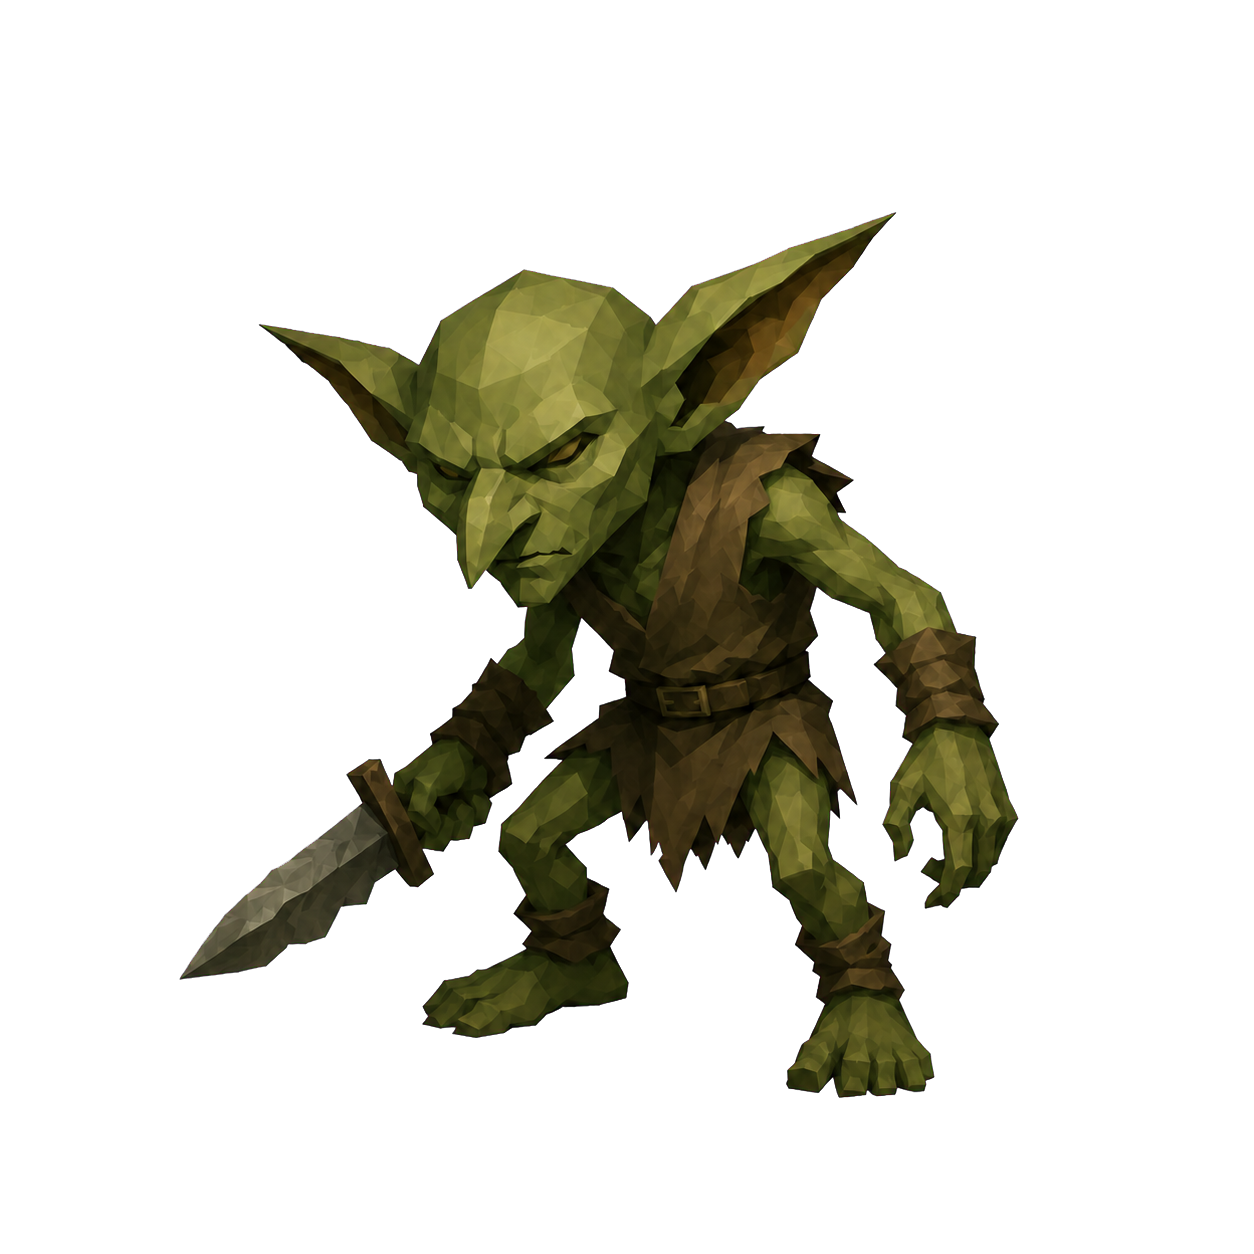
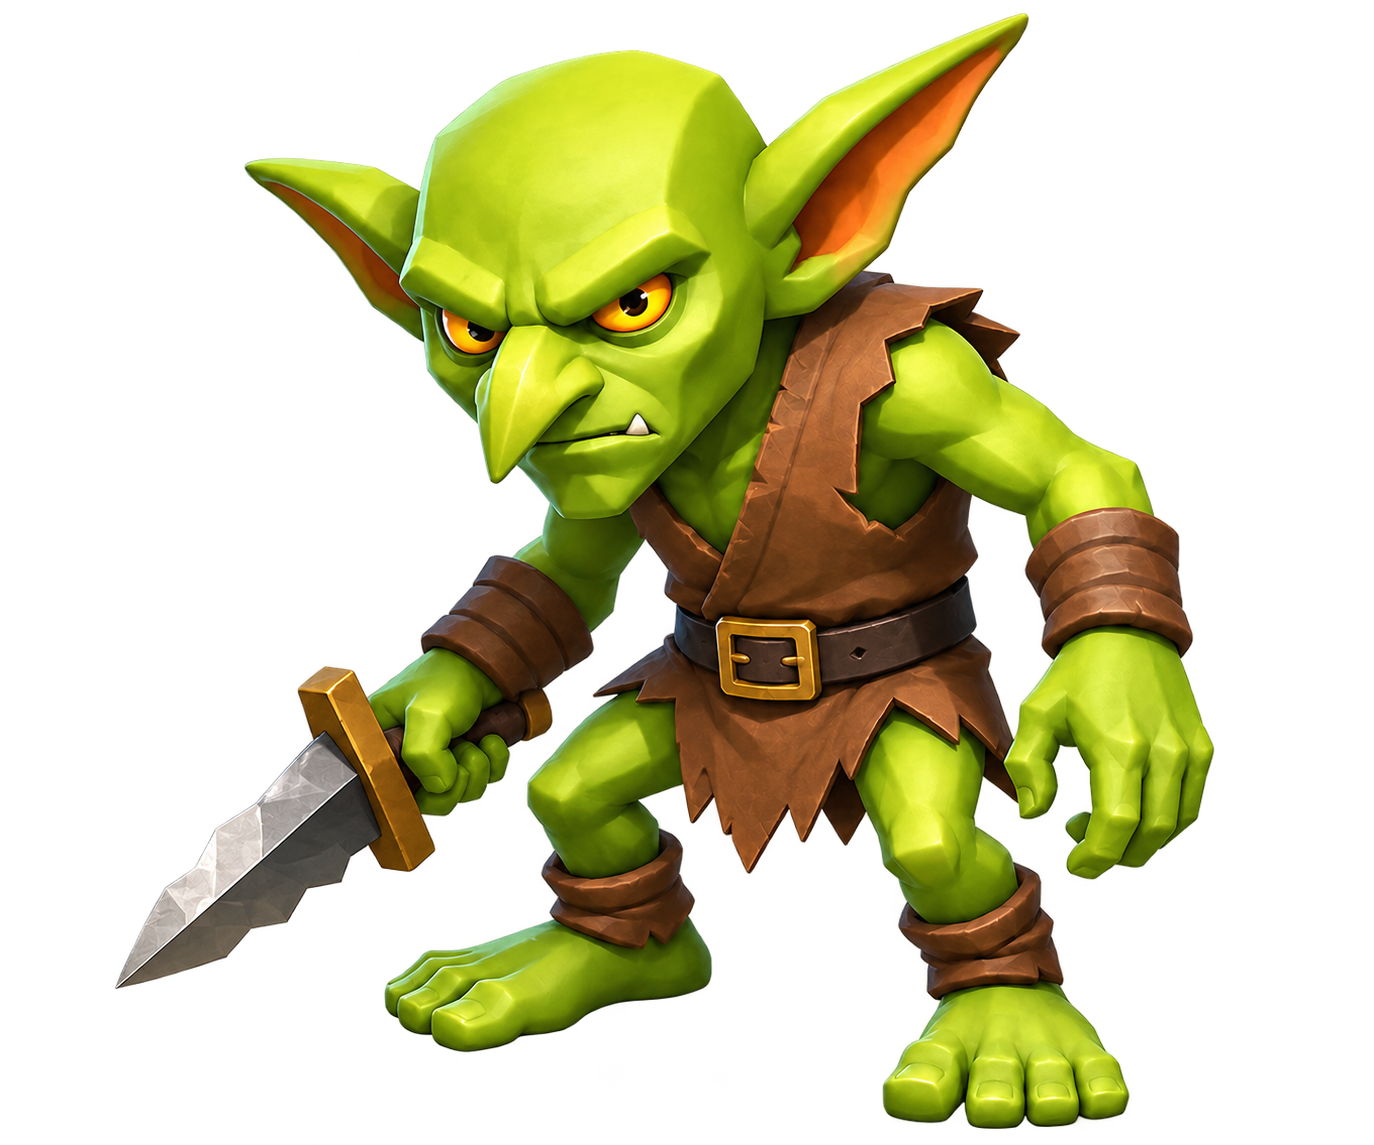
Update plains entrance monster artwork

diff --git a/monster-display-policy.js b/monster-display-policy.js
@@ -4,10 +4,10 @@
   else root.MonsterDisplayPolicy = api;
 }(typeof globalThis !== 'undefined' ? globalThis : this, function createMonsterDisplayPolicy() {
   const MONSTER_IMAGE_BY_TYPE = Object.freeze({
-    plainsRabbit: 'assets/plains-rabbit.png?v=20260724-transparent-v1',
-    plainsWolfPup: 'assets/plains-wolf-pup.png?v=20260724-user-image-v2',
-    plainsSlime: 'assets/plains-slime.png?v=20260724-transparent-v1',
-    plainsGoblinYoung: 'assets/plains-goblin-young.png?v=20260724-user-image-v1',
+    plainsRabbit: 'assets/plains-rabbit.png?v=20260831-monster-style-v1',
+    plainsWolfPup: 'assets/plains-wolf-pup.png?v=20260831-monster-style-v1',
+    plainsSlime: 'assets/plains-slime.png?v=20260831-monster-style-v1',
+    plainsGoblinYoung: 'assets/plains-goblin-young.png?v=20260831-monster-style-v1',
     lostGoblin: 'assets/lost-goblin.png?v=20260724-user-image-v1',
     denForestWolf: 'assets/wolf-den-forest-wolf.png?v=20260725-user-image-v1',
     ragingWolf: 'assets/wolf-den-raging-wolf.png?v=20260725-user-image-v1',
